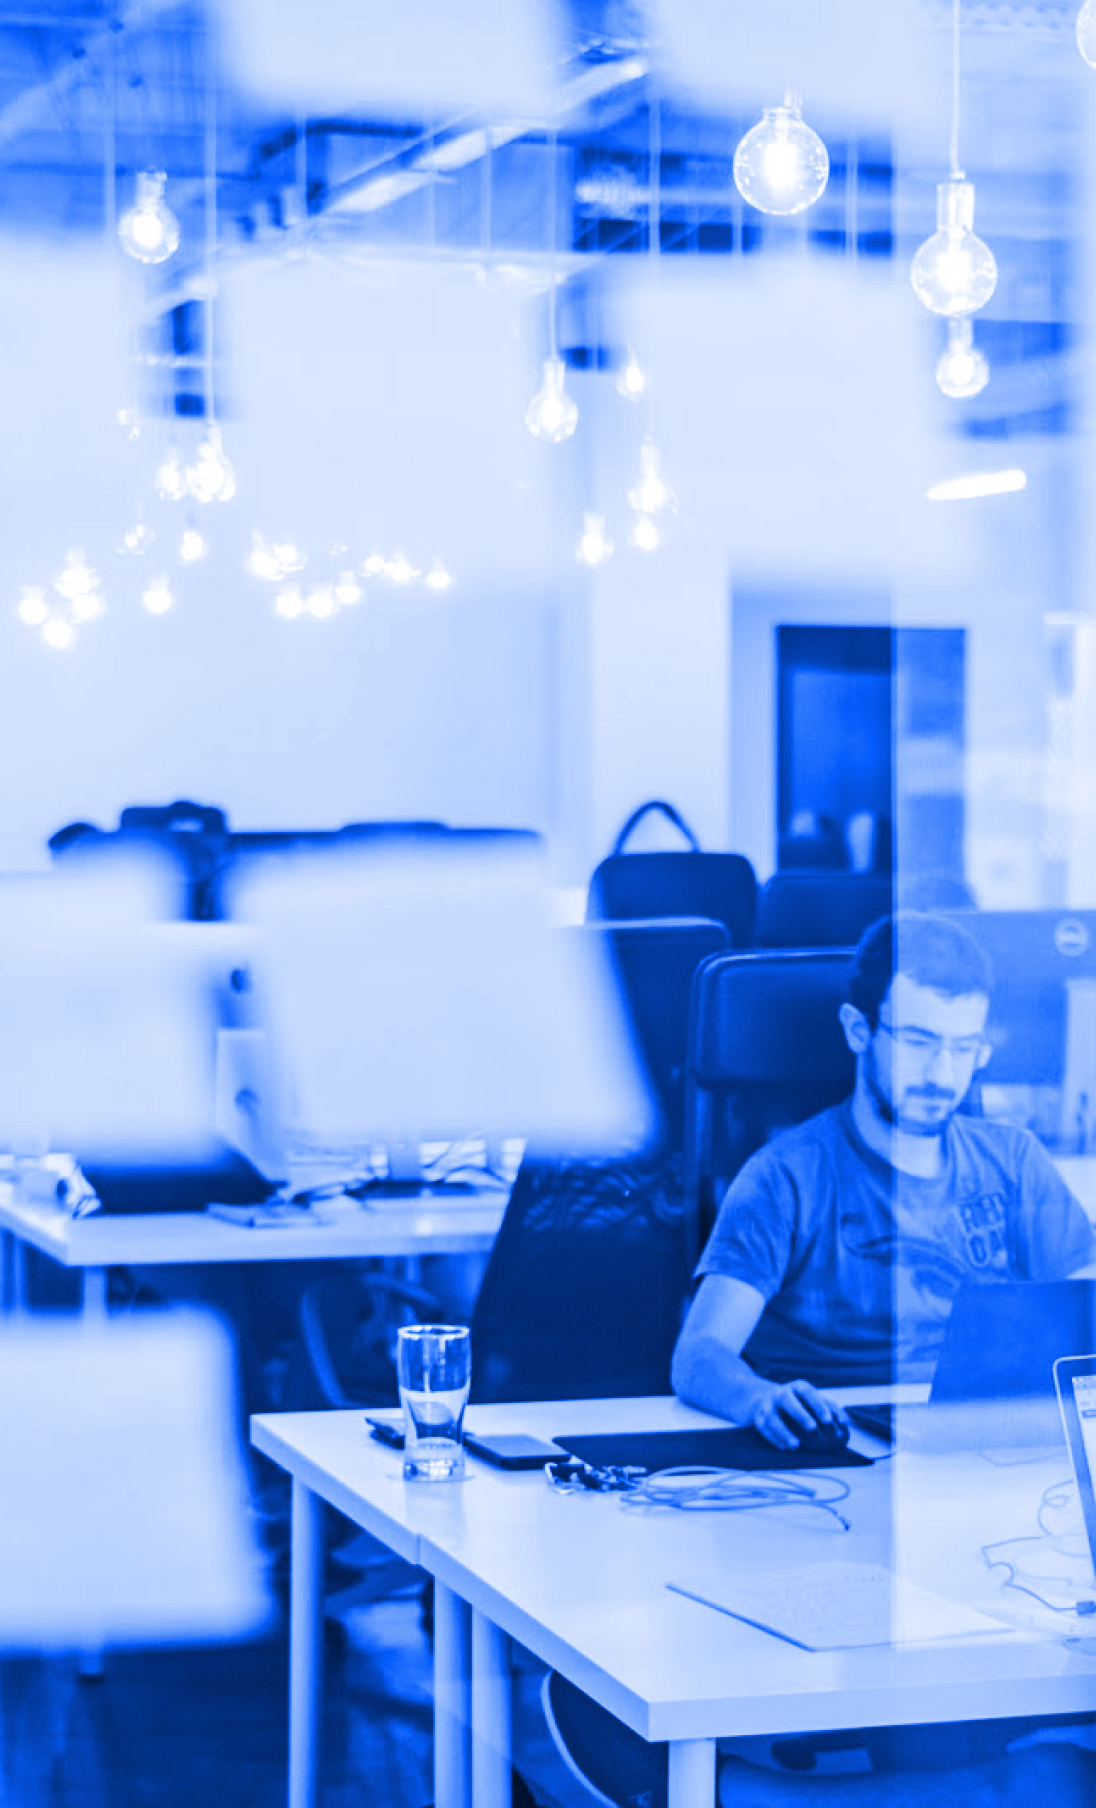
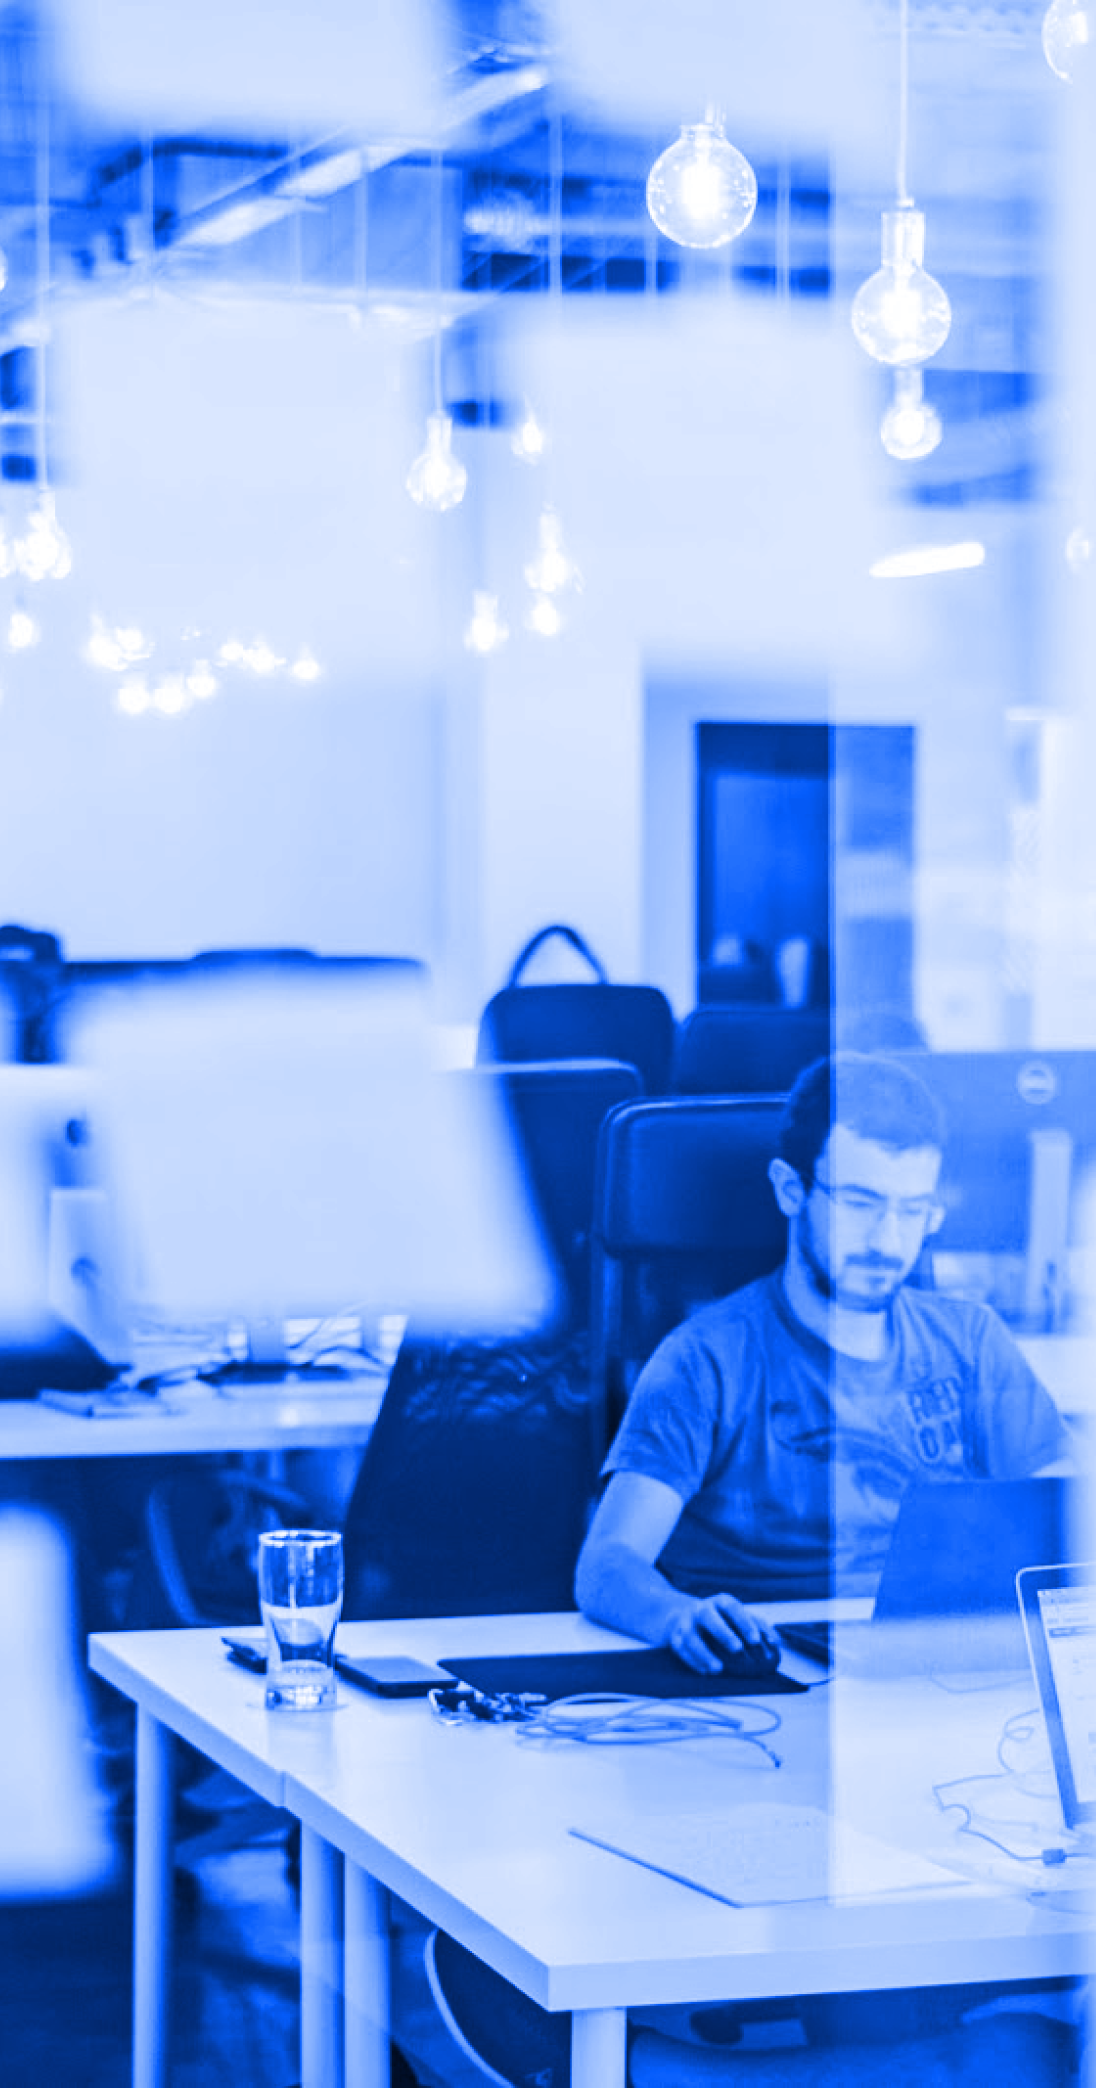
wip

diff --git a/src/components/home/Hero/index.js b/src/components/home/Hero/index.js
@@ -2,6 +2,7 @@ import React from "react"
 import PropTypes from "prop-types"
 import Img from "gatsby-image"
 import { StaticQuery, graphql } from "gatsby"
+import { ParallaxProvider, ParallaxBanner } from "react-scroll-parallax"
 
 import CallToAction from "../../CallToAction"
 import LoadPlaceholder from "../../LoadPlaceholder"
@@ -10,119 +11,108 @@ import Title from "./Title"
 
 import "./index.module.css"
 
+const renderParallaxImage = ({ baseDelay, image, parallaxAmount }) => (
+  <ParallaxBanner
+    layers={[
+      {
+        children: (
+          <LoadPlaceholder delay={baseDelay}>
+            {onLoad => (
+              <Img
+                fadeIn={false}
+                onLoad={onLoad}
+                fluid={image}
+                imgStyle={{ display: "block" }}
+                style={{ height: "100%" }}
+              />
+            )}
+          </LoadPlaceholder>
+        ),
+        amount: parallaxAmount,
+      },
+    ]}
+  />
+)
+
 const Hero = ({ data, planetMorph }) => {
   const baseDelay = 0.3
 
   return (
-    <div styleName="root">
-      <div styleName="content">
-        <div styleName="title">
-          <Title planetMorph={planetMorph} />
-        </div>
-        <div styleName="text">
-          <p>
-            <Text>
-              Building a company from the ground up is hard and stressful,
-              particularly in heavy regulated fields such as fintech and digital
-              healthcare.
-            </Text>
-          </p>
-          <p>
-            <Text>
-              Struggling with designing and developing that awesome idea you’ve
-              had? We can help you succeed.{" "}
-              <CallToAction>Together.</CallToAction>
-            </Text>
-          </p>
-        </div>
-        <div styleName="images">
-          <div styleName="image">
-            <div styleName="horizontal">
-              <LoadPlaceholder delay={baseDelay}>
-                {onLoad => (
-                  <Img
-                    fadeIn={false}
-                    onLoad={onLoad}
-                    fluid={data.hero1_h.childImageSharp.fluid}
-                    imgStyle={{ display: "block" }}
-                    style={{ height: "100%" }}
-                  />
-                )}
-              </LoadPlaceholder>
-            </div>
-            <div styleName="vertical">
-              <LoadPlaceholder delay={baseDelay}>
-                {onLoad => (
-                  <Img
-                    fadeIn={false}
-                    onLoad={onLoad}
-                    fluid={data.hero1_v.childImageSharp.fluid}
-                    imgStyle={{ display: "block" }}
-                    style={{ height: "100%" }}
-                  />
-                )}
-              </LoadPlaceholder>
-            </div>
+    <ParallaxProvider>
+      <div styleName="root">
+        <div styleName="content">
+          <div styleName="title">
+            <Title planetMorph={planetMorph} />
           </div>
-          <div styleName="image">
-            <div styleName="horizontal">
-              <LoadPlaceholder delay={baseDelay + 0.1}>
-                {onLoad => (
-                  <Img
-                    fadeIn={false}
-                    onLoad={onLoad}
-                    fluid={data.hero2_h.childImageSharp.fluid}
-                    imgStyle={{ display: "block" }}
-                    style={{ height: "100%" }}
-                  />
-                )}
-              </LoadPlaceholder>
-            </div>
-            <div styleName="vertical">
-              <LoadPlaceholder delay={baseDelay + 0.1}>
-                {onLoad => (
-                  <Img
-                    fadeIn={false}
-                    onLoad={onLoad}
-                    fluid={data.hero2_v.childImageSharp.fluid}
-                    imgStyle={{ display: "block" }}
-                    style={{ height: "100%" }}
-                  />
-                )}
-              </LoadPlaceholder>
-            </div>
+          <div styleName="text">
+            <p>
+              <Text>
+                Building a company from the ground up is hard and stressful,
+                particularly in heavy regulated fields such as fintech and
+                digital healthcare.
+              </Text>
+            </p>
+            <p>
+              <Text>
+                Struggling with designing and developing that awesome idea
+                you’ve had? We can help you succeed.{" "}
+                <CallToAction>Together.</CallToAction>
+              </Text>
+            </p>
           </div>
-          <div styleName="image">
-            <div styleName="horizontal">
-              <LoadPlaceholder delay={baseDelay + 0.2}>
-                {onLoad => (
-                  <Img
-                    fadeIn={false}
-                    onLoad={onLoad}
-                    fluid={data.hero3_h.childImageSharp.fluid}
-                    imgStyle={{ display: "block" }}
-                    style={{ height: "100%" }}
-                  />
-                )}
-              </LoadPlaceholder>
+          <div styleName="images">
+            <div styleName="image">
+              <div styleName="horizontal">
+                {renderParallaxImage({
+                  baseDelay,
+                  image: data.hero1_h.childImageSharp.fluid,
+                  parallaxAmount: 0.2,
+                })}
+              </div>
+              <div styleName="vertical">
+                {renderParallaxImage({
+                  baseDelay,
+                  image: data.hero1_v.childImageSharp.fluid,
+                  parallaxAmount: 0.2,
+                })}
+              </div>
             </div>
-            <div styleName="vertical">
-              <LoadPlaceholder delay={baseDelay + 0.2}>
-                {onLoad => (
-                  <Img
-                    fadeIn={false}
-                    onLoad={onLoad}
-                    fluid={data.hero3_v.childImageSharp.fluid}
-                    imgStyle={{ display: "block" }}
-                    style={{ height: "100%" }}
-                  />
-                )}
-              </LoadPlaceholder>
+            <div styleName="image">
+              <div styleName="horizontal">
+                {renderParallaxImage({
+                  baseDelay: baseDelay + 0.1,
+                  image: data.hero2_h.childImageSharp.fluid,
+                  parallaxAmount: 0.2,
+                })}
+              </div>
+              <div styleName="vertical">
+                {renderParallaxImage({
+                  baseDelay: baseDelay + 0.1,
+                  image: data.hero2_v.childImageSharp.fluid,
+                  parallaxAmount: 0.2,
+                })}
+              </div>
+            </div>
+            <div styleName="image" id="lixo">
+              <div styleName="horizontal">
+                {renderParallaxImage({
+                  baseDelay: baseDelay + 0.2,
+                  image: data.hero3_h.childImageSharp.fluid,
+                  parallaxAmount: 0.2,
+                })}
+              </div>
+              <div styleName="vertical">
+                {renderParallaxImage({
+                  baseDelay: baseDelay + 0.2,
+                  image: data.hero3_v.childImageSharp.fluid,
+                  parallaxAmount: 0.2,
+                })}
+              </div>
             </div>
           </div>
         </div>
       </div>
-    </div>
+    </ParallaxProvider>
   )
 }
 

diff --git a/src/components/layout/index.js b/src/components/layout/index.js
@@ -7,16 +7,18 @@ import Footer from "./Footer"
 
 import "./index.module.css"
 
-const Layout = ({ children }) => (
-  <div styleName="root">
-    <Helmet>
-      <link rel="stylesheet" href="https://use.typekit.net/bcx8qfd.css" />
-    </Helmet>
-    <Header />
-    <main>{children}</main>
-    <Footer />
-  </div>
-)
+const Layout = ({ children }) => {
+  return (
+    <div styleName="root">
+      <Helmet>
+        <link rel="stylesheet" href="https://use.typekit.net/bcx8qfd.css" />
+      </Helmet>
+      <Header />
+      <main>{children}</main>
+      <Footer />
+    </div>
+  )
+}
 
 Layout.propTypes = {
   children: PropTypes.node.isRequired,

diff --git a/src/common/reset.css b/src/common/reset.css
@@ -36,8 +36,17 @@ address {
 
 .visuallyHidden {
   position: absolute !important;
-  height: 1px; width: 1px;
+  height: 1px;
+  width: 1px;
   overflow: hidden;
   clip: rect(1px 1px 1px 1px); /* IE6, IE7 */
   clip: rect(1px, 1px, 1px, 1px);
+}
+
+.Parallax-outer-override {
+  margin: 0;
+}
+
+.parallax-banner {
+  position: unset !important;
 }

diff --git a/src/components/home/Hero/index.module.css b/src/components/home/Hero/index.module.css
@@ -31,6 +31,10 @@
   overflow-y: hidden;
 }
 
+.vertical {
+  height: 380px;
+}
+
 .horizontal,
 .vertical {
   position: absolute;
@@ -40,7 +44,6 @@
 }
 
 @media (min-width: 320px) {
-
   .images {
     grid-template-rows: 168px 168px 224px;
   }
